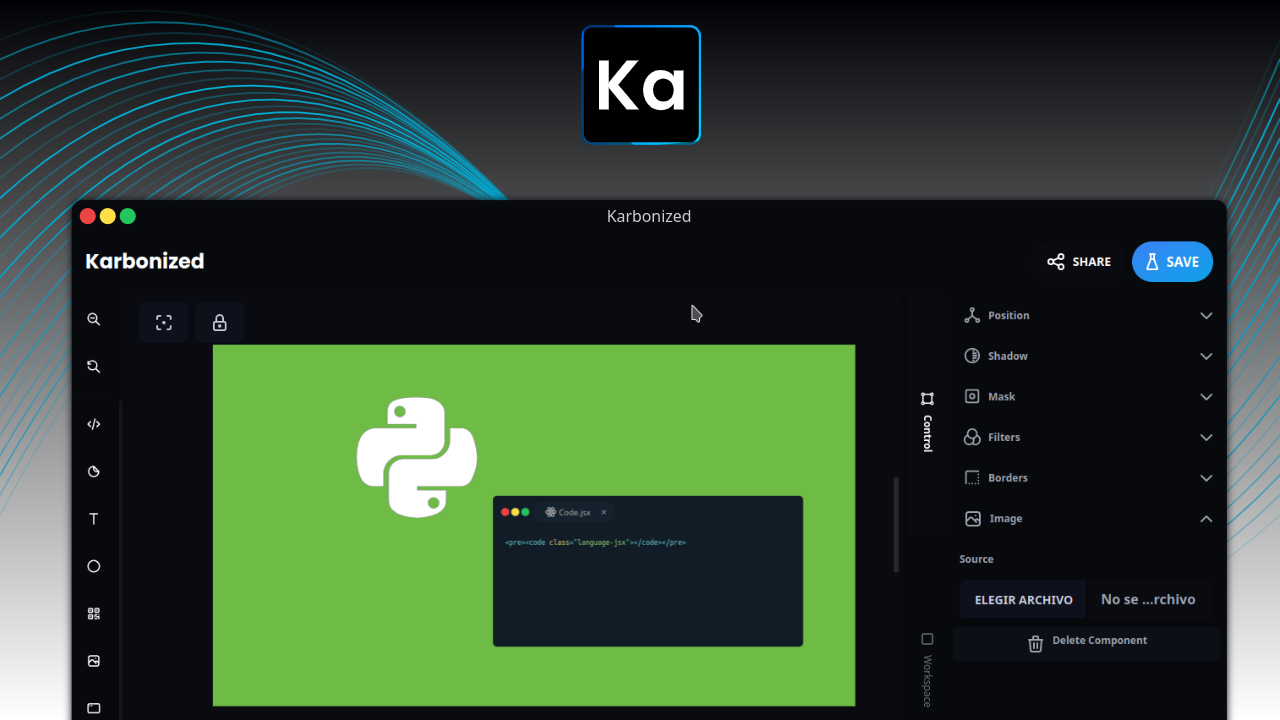
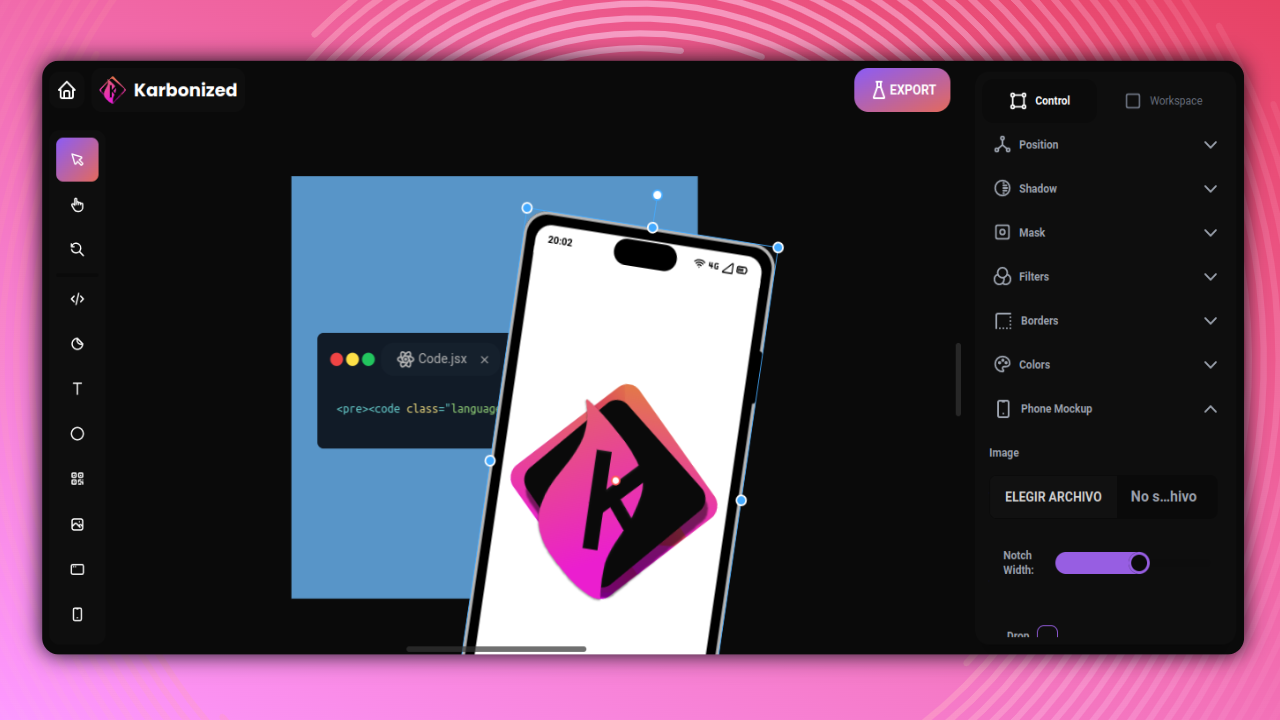
Improve Desing

diff --git a/src/App.tsx b/src/App.tsx
@@ -10,7 +10,6 @@ import {
 	IconFocusCentered,
 	IconHandFinger,
 	IconHome,
-	IconHome2,
 	IconInfoCircle,
 	IconJpg,
 	IconLetterT,
@@ -43,6 +42,7 @@ import { Workspace } from './components/Workspace';
 import { useScreenDirection } from './hooks/useScreenDirection';
 import { useStoreActions, useStoreState } from './stores/Hooks';
 import './utils.css';
+import karbonized from './assets/karbonized.svg';
 
 const App: React.FC = () => {
 	// App Store
@@ -223,21 +223,21 @@ const App: React.FC = () => {
 	}, [ref]);
 
 	return (
-		<>
-			<div
-				onContextMenu={(e) => {
-					e.preventDefault();
-				}}
-				id='body'
-				className='flex h-screen w-screen flex-auto flex-col overflow-hidden bg-base-100'
-			>
+		<div
+			onContextMenu={(e) => {
+				e.preventDefault();
+			}}
+			id='body'
+			className='flex h-screen w-screen flex-auto flex-col overflow-hidden bg-base-100 md:flex-row'
+		>
+			<div className='flex flex-auto flex-col overflow-hidden bg-base-100 p-2 md:p-0'>
 				{/* Nav Bar */}
 				<Navbar className='flex h-2 shrink'>
 					<Navbar.Start>
 						{/* About Button */}
 						<Button
 							color='ghost'
-							className='ml-2 rounded-full hover:border-base-100   hover:bg-base-100 md:hidden'
+							className='ml-2 hidden rounded-full hover:border-base-100   hover:bg-base-100 md:hidden'
 							onClick={() => setShowAbout(true)}
 						>
 							<IconInfoCircle className='text-black dark:text-white'></IconInfoCircle>
@@ -246,31 +246,21 @@ const App: React.FC = () => {
 							</p>
 						</Button>
 
-						<div className='mt-2 flex flex-row gap-2 rounded-xl bg-base-200 p-4 text-black dark:text-white'>
-							<IconHome className='my-auto'></IconHome>
-							<p className='poppins-font-family my-auto text-xs'>Karbonized</p>
+						<div className='mr-2 flex-row gap-2 rounded-xl bg-base-200 p-2 text-black dark:text-white md:flex'>
+							<IconHome size={24} className='mx-auto my-auto'></IconHome>
+						</div>
+
+						<div className=' hidden flex-row gap-2 rounded-xl bg-base-200 p-2 text-black dark:text-white md:flex'>
+							<img className='h-8 w-full' src={karbonized}></img>
+							<p className='poppins-font-family my-auto text-xl'>Karbonized</p>
 						</div>
 					</Navbar.Start>
 
 					<Navbar.Center>
-						<p className='poppins-font-family ml-2 flex select-none text-2xl text-black dark:text-white md:hidden'>
-							Karbonized
-						</p>
+						<img className='h-12 w-full md:hidden' src={karbonized}></img>
 					</Navbar.Center>
 
 					<Navbar.End>
-						{/* Share Button */}
-						<Button
-							color='ghost'
-							className='mr-2 rounded-full hover:border-base-200 hover:bg-base-200 md:border-base-100 md:bg-base-100'
-							onClick={handleShare}
-						>
-							<IconShare className='text-black dark:text-white'></IconShare>
-							<p className='hidden text-black dark:text-white md:ml-2 md:flex'>
-								Share
-							</p>
-						</Button>
-
 						<ContextMenu
 							menu={
 								<>
@@ -305,7 +295,7 @@ const App: React.FC = () => {
 							}
 							position='bottom-end'
 						>
-							<div className='mr-2 hidden w-24 cursor-pointer rounded-full border-primary bg-gradient-to-br from-blue-500 to-primary p-3 hover:border-primary hover:bg-gradient-to-l md:flex'>
+							<div className='mr-2 hidden w-24 cursor-pointer rounded-full border-primary bg-gradient-to-br from-blue-500 to-primary p-3 hover:border-primary hover:bg-gradient-to-l'>
 								<IconFlask className='text-white'></IconFlask>
 								<p className='mx-auto hidden font-bold text-white md:flex'>
 									SAVE
@@ -322,13 +312,22 @@ const App: React.FC = () => {
 							<p className='hidden text-white md:flex'>Save</p>
 						</Button>
 
+						{/* Share Button */}
+						<Button
+							onClick={handleShare}
+							className='mr-2 rounded-2xl border-none border-primary bg-gradient-to-br from-violet-500 to-secondary hover:border-primary hover:bg-gradient-to-l md:hidden'
+						>
+							<IconFlask className='text-white'></IconFlask>
+							<p className='hidden text-white md:flex'>Export</p>
+						</Button>
+
 						{/* Preview Button */}
 						<Button
 							onClick={showPreviewImage}
-							className='mr-2 rounded-full border-primary bg-gradient-to-br from-blue-500 to-primary hover:border-primary hover:bg-gradient-to-l'
+							className='mr-2 hidden rounded-2xl border-none border-primary bg-gradient-to-br from-violet-500 to-secondary hover:border-primary hover:bg-gradient-to-l md:flex'
 						>
 							<IconFlask className='text-white'></IconFlask>
-							<p className='hidden text-white md:flex'>Preview</p>
+							<p className='hidden text-white md:flex'>Export</p>
 						</Button>
 					</Navbar.End>
 				</Navbar>
@@ -416,7 +415,7 @@ const App: React.FC = () => {
 					</div>
 
 					{/* Controls Tree */}
-					<div className='order-3 mx-3 my-3 flex flex-row items-center gap-2 overflow-y-auto rounded-xl bg-base-200 p-2 shadow-xl md:order-first md:mx-0 md:ml-2 md:w-14 md:flex-col'>
+					<div className='order-3 my-4 flex w-full flex-row gap-2 overflow-auto rounded-xl bg-base-200 p-2 md:order-first md:mx-0 md:ml-2 md:w-16 md:flex-col'>
 						{/* Actions */}
 
 						{/* Show Menu */}
@@ -442,11 +441,11 @@ const App: React.FC = () => {
 							</Button>
 						</Tooltip>
 
-						{/* Show Menu */}
+						{/* Workspace Menu */}
 						<Tooltip className='flex flex-auto md:hidden' messsage='Select'>
 							<Button
 								color='ghost'
-								className='p-1'
+								className='p-1 dark:text-white'
 								onClick={() => {
 									setShowWorkspacePanel(true);
 								}}
@@ -458,15 +457,16 @@ const App: React.FC = () => {
 							</Button>
 						</Tooltip>
 
-						<p className='rounded bg-base-100 p-0.5 md:hidden'></p>
+						<p className='my-auto h-0.5 rounded bg-base-100 p-0.5 md:hidden'></p>
 
 						{/* Select */}
 						<Tooltip className='flex flex-auto' messsage='Select'>
 							<Button
 								color='ghost'
-								className={`flex flex-auto flex-col ${
-									editing && 'bg-primary text-white'
-								} p-1 hover:bg-primary`}
+								className={`flex flex-auto ${
+									editing &&
+									'border-none bg-gradient-to-br from-violet-500 to-secondary  text-white'
+								} p-1 hover:bg-gradient-to-bl`}
 								onClick={() => {
 									setEditing(true);
 									setDrag(false);
@@ -484,7 +484,8 @@ const App: React.FC = () => {
 							<Button
 								color='ghost'
 								className={`flex flex-auto flex-col ${
-									drag && 'bg-primary text-white hover:bg-primary'
+									drag &&
+									'border-none bg-gradient-to-br from-violet-500 to-secondary   text-white hover:bg-gradient-to-bl'
 								} p-1`}
 								onClick={() => {
 									setDrag(true);
@@ -512,7 +513,7 @@ const App: React.FC = () => {
 							</Button>
 						</Tooltip>
 
-						<p className='rounded bg-base-100 p-0.5'></p>
+						<p className='my-auto h-0.5 rounded bg-base-100 p-0.5 '></p>
 
 						{/* Code Control */}
 						<Tooltip className='flex flex-auto ' messsage='Code'>
@@ -660,32 +661,36 @@ const App: React.FC = () => {
 							</div>
 						</InfiniteViewer>
 					</div>
-
-					{/* Menu */}
-					<div
-						className={`${
-							showMenu ? 'flex' : 'hidden'
-						} order-2   h-96  max-h-72 w-full flex-col p-3 text-white md:h-full  md:max-h-full md:max-w-xs lg:max-w-xs`}
-					>
-						<ControlsMenu></ControlsMenu>
-					</div>
 				</div>
 
+				{/* Preview */}
 				{showPreview && (
 					<div className='absolute z-50 flex h-screen w-screen flex-auto bg-black/80'>
-						<div className='mx-auto my-auto'>
-							<div className='flex flex-row gap-2 rounded-2xl bg-base-200 p-6'>
-								<div className='my-auto max-h-max w-96 overflow-scroll rounded'>
+						<div className='mx-auto my-auto rounded-2xl bg-base-200 p-6'>
+							<div className='flex w-fit flex-row gap-1 rounded-xl bg-base-100 p-2'>
+								<img className='h-10' src={karbonized}></img>
+								<p className='poppins-font-family mx-2 my-auto text-2xl dark:text-white '>
+									Export
+								</p>
+							</div>
+
+							<div className='mt-2 flex flex-row gap-2'>
+								<div className='my-auto max-h-max w-96 overflow-scroll rounded-2xl bg-base-100 p-2'>
 									<TransformWrapper>
 										<TransformComponent>
-											<img className='' src={previewImage} alt='preview'></img>
+											<img
+												className='rounded'
+												src={previewImage}
+												alt='preview'
+											></img>
 										</TransformComponent>
 									</TransformWrapper>
 								</div>
 
+								{/* Save Buttons */}
 								<div className='my-auto flex flex-auto flex-col gap-3'>
 									<Button
-										className='flex flex-auto cursor-pointer select-none rounded-xl bg-base-100 bg-gradient-to-br from-blue-500 to-primary p-3 text-white hover:bg-gradient-to-bl'
+										className='flex flex-auto cursor-pointer select-none rounded-2xl bg-base-100 bg-gradient-to-br from-violet-500 to-secondary p-3 text-white hover:bg-gradient-to-bl'
 										onMouseDown={handleShare}
 									>
 										<div className='my-auto flex flex-auto flex-row gap-2'>
@@ -695,7 +700,7 @@ const App: React.FC = () => {
 									</Button>
 
 									<Button
-										className='flex flex-auto cursor-pointer select-none rounded-xl bg-base-100 p-3'
+										className='flex flex-auto cursor-pointer select-none rounded-2xl bg-base-100 p-3'
 										onMouseDown={exportAsPng}
 									>
 										<div className='my-auto flex flex-auto flex-row gap-2'>
@@ -704,7 +709,7 @@ const App: React.FC = () => {
 										</div>
 									</Button>
 									<Button
-										className='flex flex-auto cursor-pointer select-none rounded-xl bg-base-100 p-3'
+										className='flex flex-auto cursor-pointer select-none rounded-2xl bg-base-100 p-3'
 										onMouseDown={exportAsJpeg}
 									>
 										<div className='my-auto flex flex-auto flex-row gap-2'>
@@ -713,7 +718,7 @@ const App: React.FC = () => {
 										</div>
 									</Button>
 									<Button
-										className='flex flex-auto cursor-pointer select-none rounded-xl bg-base-100 p-3'
+										className='flex flex-auto cursor-pointer select-none rounded-2xl bg-base-100 p-3'
 										onMouseDown={exportAsSvg}
 									>
 										<div className='my-auto flex flex-auto flex-row gap-2'>
@@ -723,7 +728,7 @@ const App: React.FC = () => {
 									</Button>
 
 									<Button
-										className='flex flex-auto cursor-pointer select-none rounded-xl bg-red-600 p-3 text-white hover:bg-red-700'
+										className='flex flex-auto cursor-pointer select-none rounded-2xl bg-red-600 p-3 text-white hover:bg-red-700'
 										onMouseDown={() => setShowPreview(false)}
 									>
 										<div className='my-auto flex flex-auto flex-row gap-2'>
@@ -738,6 +743,15 @@ const App: React.FC = () => {
 				)}
 			</div>
 
+			{/* Menu */}
+			<div
+				className={`${
+					showMenu ? 'flex' : 'hidden'
+				}  order-2 h-96   max-h-72  w-full flex-col items-center p-3 text-white md:h-full  md:max-h-full md:max-w-xs lg:max-w-xs`}
+			>
+				<ControlsMenu></ControlsMenu>
+			</div>
+
 			{/* Modals */}
 			{showAbout && (
 				<AboutModal open onClose={() => setShowAbout(false)}></AboutModal>
@@ -748,7 +762,7 @@ const App: React.FC = () => {
 					onClickBackdrop={() => {
 						setShowWorkspacePanel(false);
 					}}
-					className='bg-base-100'
+					className='bg-base-200 dark:text-white'
 				>
 					<Modal.Header className='font-bold dark:text-white'>
 						<p className='poppins-font-family text-center text-2xl md:text-left md:text-xl'>
@@ -772,7 +786,7 @@ const App: React.FC = () => {
 					</Modal.Actions>
 				</Modal>
 			)}
-		</>
+		</div>
 	);
 };
 

diff --git a/src/components/CustomControls/CustomCollapse.tsx b/src/components/CustomControls/CustomCollapse.tsx
@@ -17,10 +17,10 @@ export const CustomCollapse: React.FC<Props> = ({
 		<div>
 			<div
 				onMouseDown={() => setOpen(!open)}
-				className='flex flex-auto hover:bg-slate-800/20 flex-row my-auto text-xs text-black dark:text-gray-400 font-bold select-none cursor-pointer h-12 max-h-12 p-1 rounded-xl'
+				className='my-auto flex h-12 max-h-12 flex-auto cursor-pointer select-none flex-row rounded-xl p-1 text-xs font-bold text-black hover:bg-neutral dark:text-gray-400'
 			>
 				{menu}
-				<div className='ml-auto my-auto'>
+				<div className='my-auto ml-auto'>
 					{open ? (
 						<IconChevronUp></IconChevronUp>
 					) : (
@@ -29,7 +29,7 @@ export const CustomCollapse: React.FC<Props> = ({
 				</div>
 			</div>
 			{open && (
-				<div className='mt-2 flex flex-auto flex-col gap-4 p-2 select-none'>
+				<div className='mt-2 flex flex-auto select-none flex-col gap-4 p-2'>
 					{children}
 				</div>
 			)}

diff --git a/vite.config.ts b/vite.config.ts
@@ -17,8 +17,8 @@ export default defineConfig({
 				display: 'standalone',
 				description:
 					'Make amazing images of your screenshots or your code and share them with the world',
-				theme_color: '#07090d',
-				background_color: '#07090d',
+				theme_color: '#0A0A0A',
+				background_color: '#0A0A0A',
 				icons: [
 					{
 						src: 'assets/icons/icon-72x72.png',

diff --git a/README.md b/README.md
@@ -1,6 +1,7 @@
-<h1 align="center">Karbonized</h1>
 
 ![carbonizedlogo](./img/banner.png)
+
+<h1 align="center">Karbonized</h1>
 
 <p align="center">
 ⭐ Make amazing images of your screenshots or your code and share them with the world 🌎</p>
